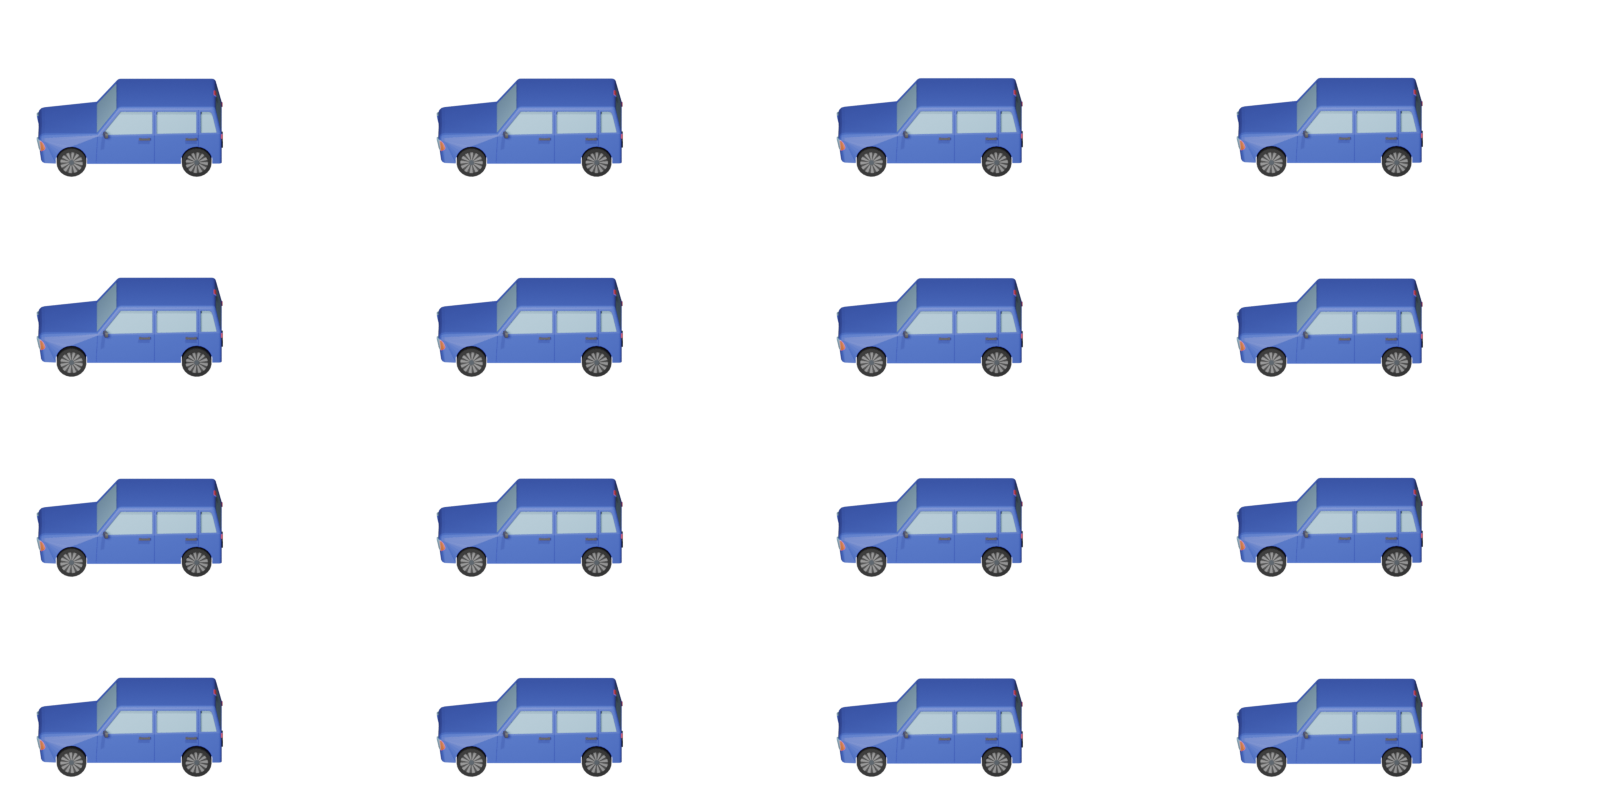
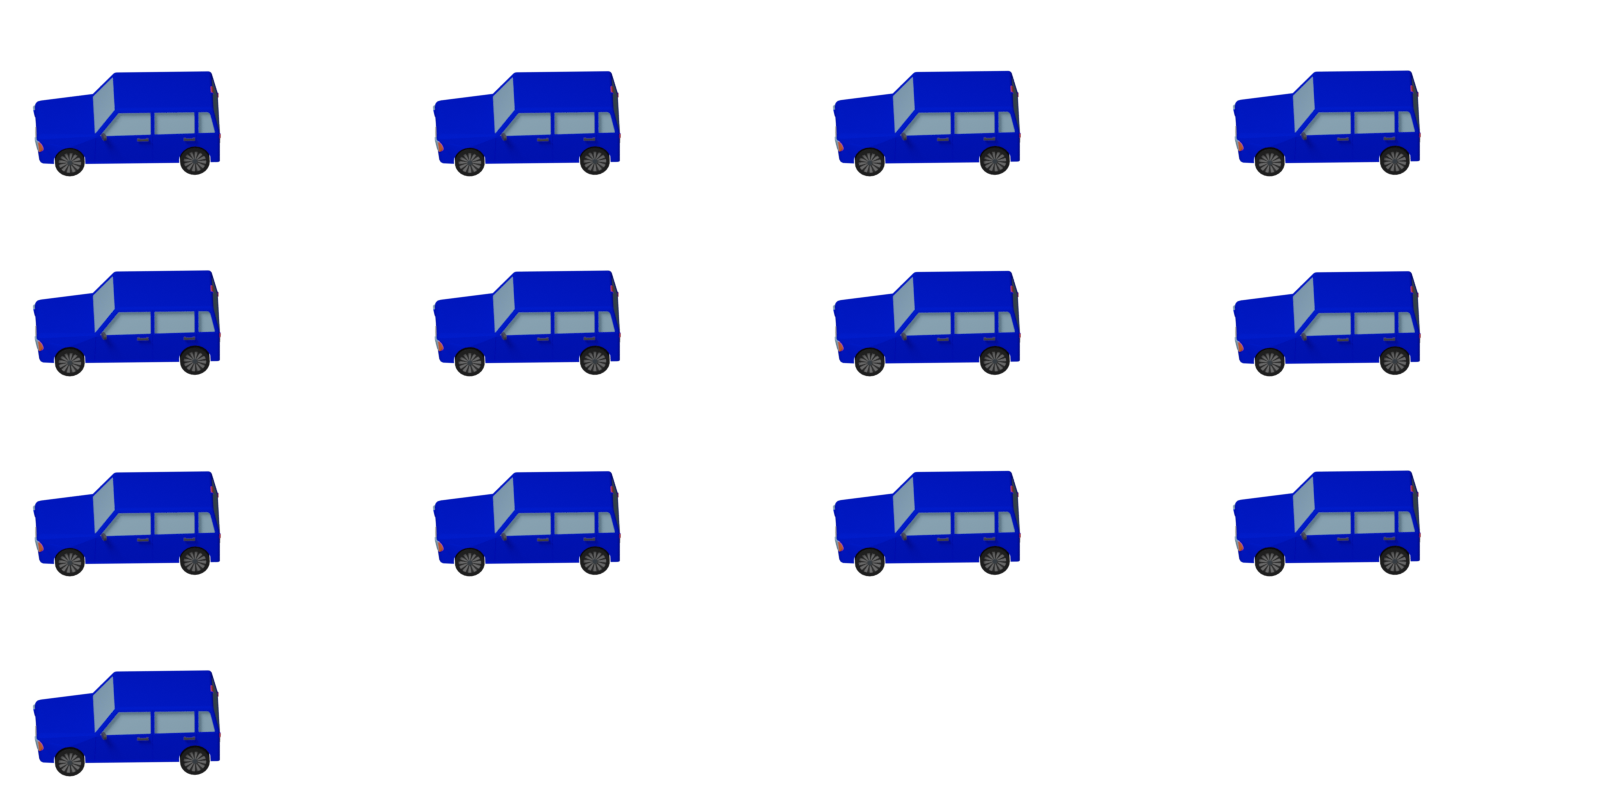
fix: update car colours to be more vibrant

diff --git a/packages/trashy_road/lib/src/game/entities/car/car.dart b/packages/trashy_road/lib/src/game/entities/car/car.dart
@@ -66,7 +66,7 @@ class _CarSpriteComponent extends GameSpriteAnimationComponent {
           // The `scale` has been eyeballed to match with the overall tile map.
           scale: Vector2.all(0.9),
           animationData: SpriteAnimationData.sequenced(
-            amount: 16,
+            amount: 12,
             amountPerRow: 4,
             textureSize: Vector2(400, 200),
             stepTime: 1 / 24,

diff --git a/packages/trashy_road/lib/src/game/components/sprite/game_sprite_animation_component.dart b/packages/trashy_road/lib/src/game/components/sprite/game_sprite_animation_component.dart
@@ -15,12 +15,6 @@ class GameSpriteAnimationComponent extends SpriteAnimationComponent
   final SpriteAnimationData _animationData;
 
   @override
-  void update(double dt) {
-    super.update(dt);
-    playing = game.camera.canSee(this);
-  }
-
-  @override
   Future<void> onLoad() async {
     await super.onLoad();
 
